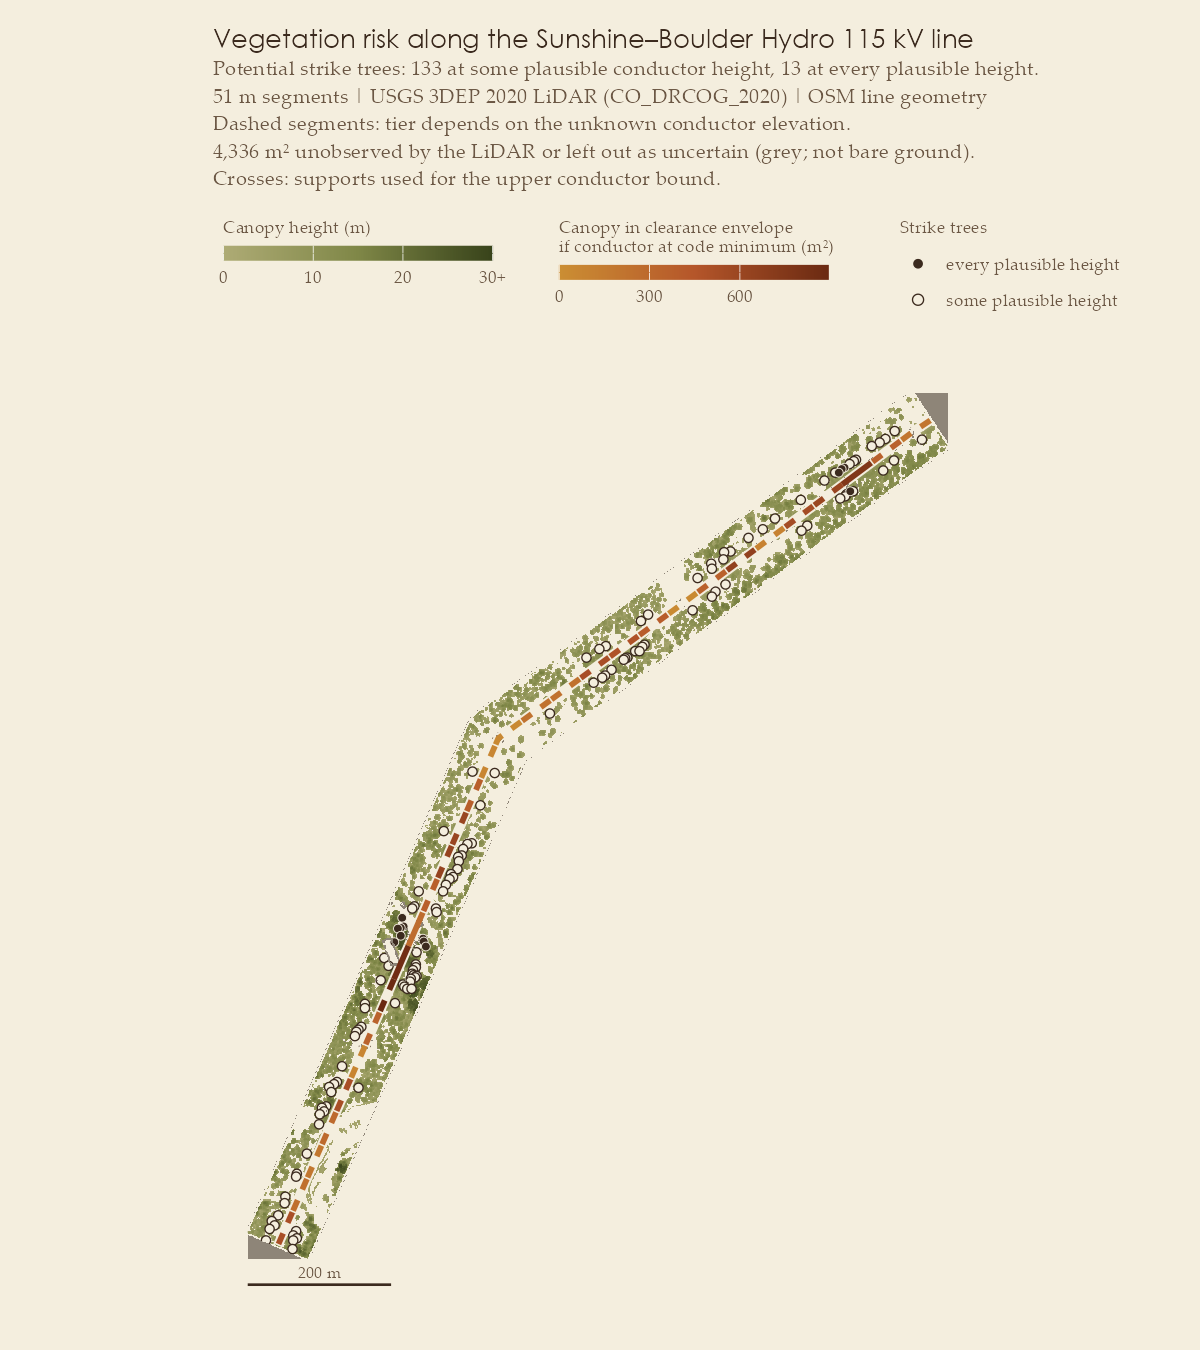
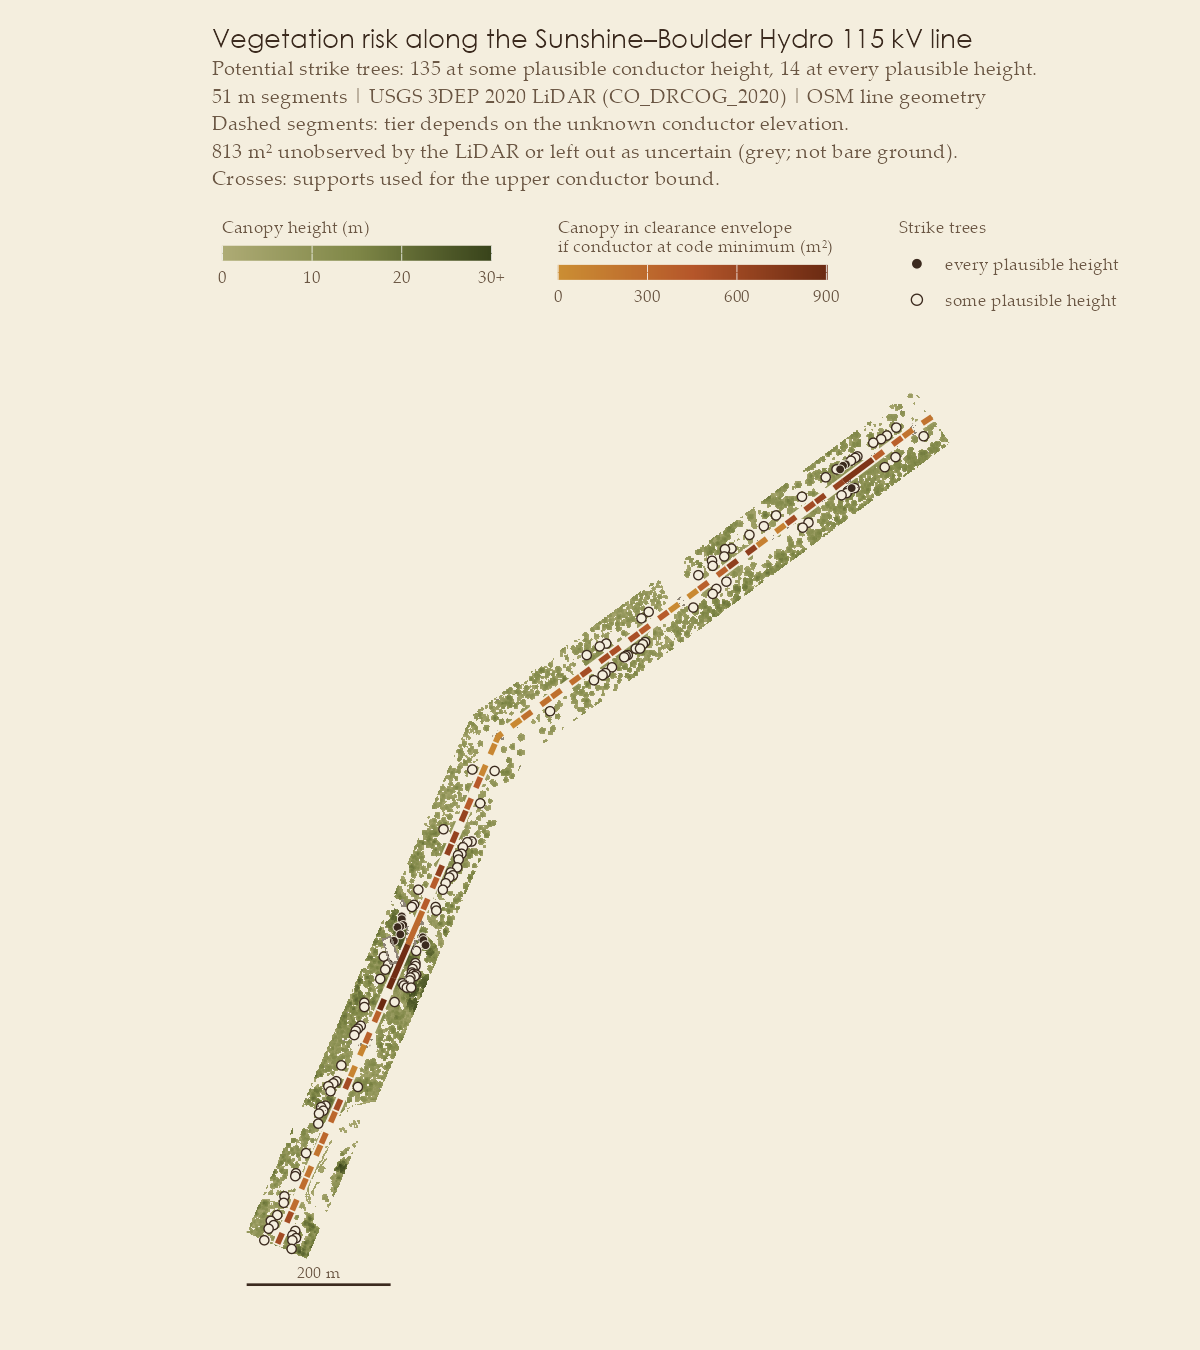
docs: re-run both case studies after #58, #59, #63, #64, #65
Sunshine: 14 / 135 strike trees (13 / 133), encroachment up about 10% with
the crown filter keeping narrow crowns, tiers unchanged; wire average
precision by fold beside the pooled figure; the wind record is ECMWF IFS
2017-2024 (447 fire-weather hours at 16.5 m/s) instead of the two-product
default. Nashville: tiers and the 24 strike trees unchanged; structure
average precision 0.048 (0.008) with tower steel abstaining; the vendor
table's model row scored out of fold; masked shares reported. Limits and
roadmap mark what is fixed and record what the fixes cost.

Changed region(s): [[0.185, 0.0, 0.8633, 0.1867], [0.185, 0.28, 0.8017, 0.9644], [0.8017, 0.1867, 0.925, 0.2489]]

diff --git a/README.md b/README.md
@@ -8,7 +8,7 @@
 
 **Which trees threaten a power line? A screen from public airborne LiDAR, in R.**
 
-`vegrisk` turns USGS 3DEP point clouds and OpenStreetMap line geometry into a segment-by-segment screen for the two vegetation failure modes utilities manage: canopy growing into the clearance envelope (**grow-in**) and trees tall enough to reach a conductor if they fall (**fall-in**). Public LiDAR has no wire labels, so the package learns them from geometry; the conductor elevation is measured where the LiDAR saw the wires and bracketed where it did not, so every finding carries its confidence. Optional steps rank the grown-in canopy by dry-season greenness (Landsat) and the strike trees by which fire-weather winds would throw them into the line (ERA5, NWS).
+`vegrisk` turns USGS 3DEP point clouds and OpenStreetMap line geometry into a segment-by-segment screen for the two vegetation failure modes utilities manage: canopy growing into the clearance envelope (**grow-in**) and trees tall enough to reach a conductor if they fall (**fall-in**). Public LiDAR has no wire labels, so the package learns them from geometry; the conductor elevation is measured where the LiDAR saw the wires and bracketed where it did not, so every finding carries its confidence. Optional steps rank the grown-in canopy by dry-season greenness (Landsat) and the strike trees by which fire-weather winds would throw them into the line (ECMWF, NWS).
 
 ![Vegetation risk along the Sunshine–Boulder Hydro 115 kV line](man/figures/sunshine_risk_map.png)
 
@@ -16,8 +16,8 @@
 
 1. **Whether public LiDAR can decide grow-in depends on whether it sampled the conductors.** In Colorado it barely did (2% of the line), so 27 of 30 segments stay undecidable and 3 are robust candidates. In Nashville the 500 kV bundles were sampled end to end, and the same pipeline gives a measured, decisive screen.
 2. **Vendor vegetation classes contain the conductors.** In Nashville, 99.3% of conductor returns are delivered as *high vegetation*. A canopy model built from the delivered classes flags every one of 39 segments as grow-in; with conductor returns removed, none are.
-3. **Random cross-validation on point clouds misleads.** Random folds report a Colorado wire average precision of 0.20; 100 m spatial blocks report 0.005. The Colorado model does not transfer to Nashville.
-4. **Wind direction splits the strike trees in two.** 97% of Colorado fire-weather hours blow from the west, so the 133 potential strike trees divide into 44 windward of the line and 89 leeward, and the top grow-in candidate also holds the most windward trees.
+3. **Random cross-validation on point clouds misleads.** Random folds report a Colorado wire average precision of 0.20; 100 m spatial blocks report 0.009, and 0.005 to 0.13 fold by fold, because three-quarters of the wire points sit in one block. The Colorado model does not transfer to Nashville.
+4. **Wind direction splits the strike trees in two.** 98% of Colorado fire-weather hours blow from the west, so the 131 trees that could reach a low conductor divide into 48 windward of the line and 83 leeward, and the top grow-in candidate also holds the most windward trees.
 
 ## Two corridors
 
@@ -27,7 +27,7 @@
 <td width="50%"><img src="man/figures/nashville_conductor_profile.png" alt="West Nashville conductor profile"></td>
 </tr>
 <tr>
-<td valign="top"><b>Sunshine Canyon, Colorado.</b> 115 kV on wood H-frames in the wildland–urban interface, 2.5 km from the 2010 Fourmile Canyon Fire. Conductor bounded, not measured: 3 robust grow-in candidates, 27 undecidable segments, 13–133 strike trees depending on the conductor height. <a href="https://mjorden.github.io/powerline-veg-risk/articles/sunshine-canyon.html">Case study →</a></td>
+<td valign="top"><b>Sunshine Canyon, Colorado.</b> 115 kV on wood H-frames in the wildland–urban interface, 2.5 km from the 2010 Fourmile Canyon Fire. Conductor bounded, not measured: 3 robust grow-in candidates, 27 undecidable segments, 14–135 strike trees depending on the conductor height. <a href="https://mjorden.github.io/powerline-veg-risk/articles/sunshine-canyon.html">Case study →</a></td>
 <td valign="top"><b>West Nashville, Tennessee.</b> TVA 500 kV on lattice towers, LiDAR in US survey feet with vendor classes to check against. Conductor measured along the whole line: no grow-in, 24 strike trees in 7 segments, 32 segments seen to be clear. <a href="https://mjorden.github.io/powerline-veg-risk/articles/nashville.html">Case study →</a></td>
 </tr>
 </table>
@@ -48,4 +48,4 @@ Rscript analysis/run_nashville.R         # ~0.3 GB; scores the Colorado model, s
 Rscript -e 'devtools::test()'           # synthetic geometry + lidR example data, no network
 ```
 
-Data: USGS 3DEP (public domain), © OpenStreetMap contributors (ODbL), USGS Landsat Collection 2 via the Microsoft Planetary Computer, Copernicus ERA5 via Open-Meteo (CC BY 4.0), U.S. National Weather Service API.
+Data: USGS 3DEP (public domain), © OpenStreetMap contributors (ODbL), USGS Landsat Collection 2 via the Microsoft Planetary Computer, ECMWF IFS and Copernicus ERA5 via Open-Meteo (CC BY 4.0; the free API is for non-commercial use), U.S. National Weather Service API.
